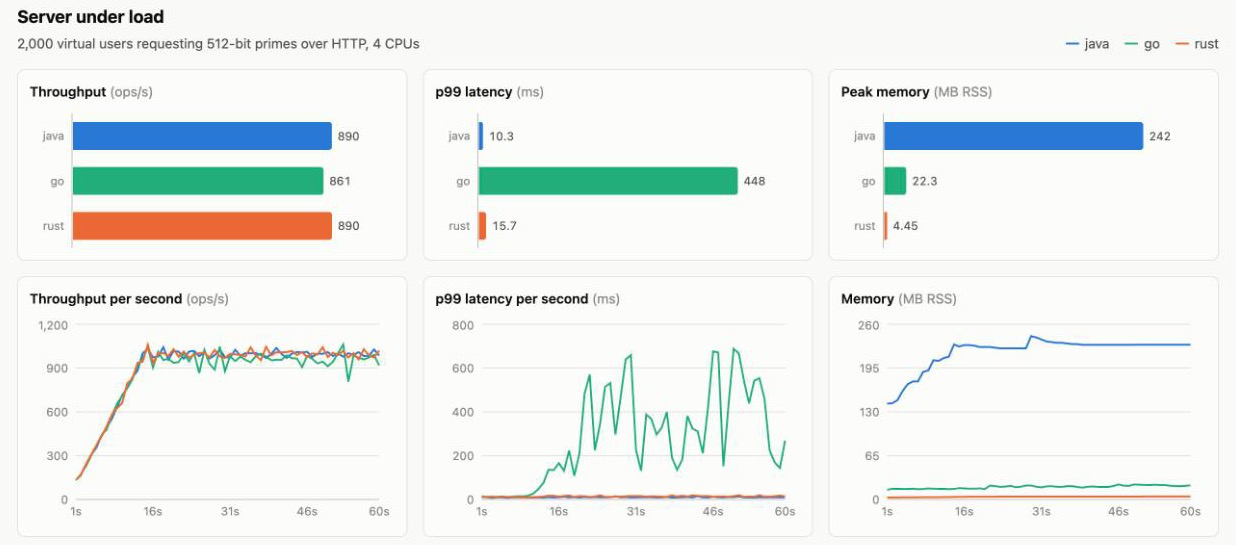
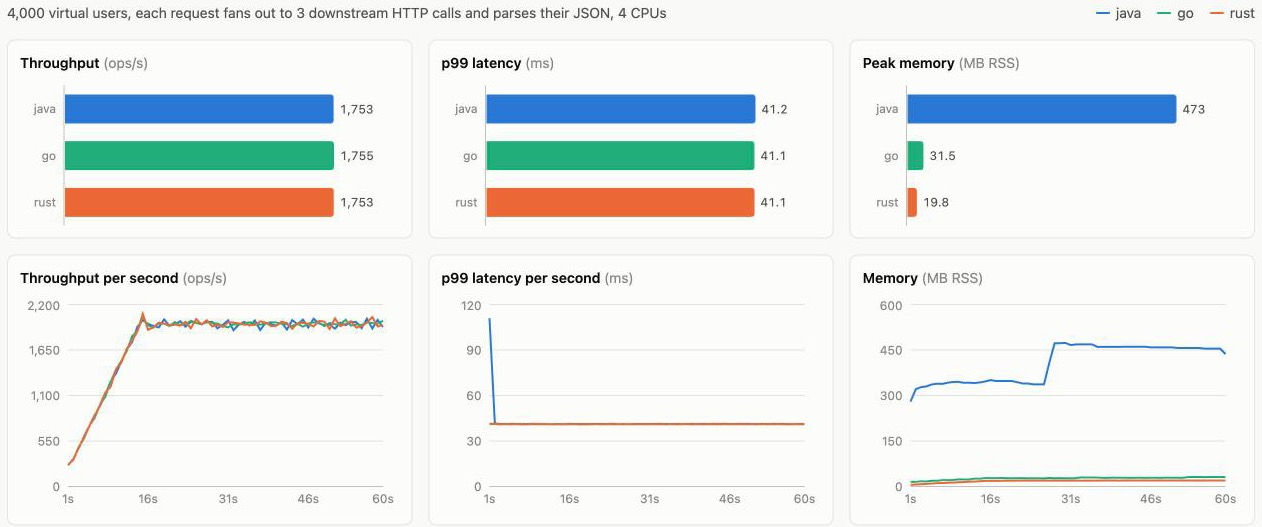
Document the gateway scenario and update the README results with a full run of all three scenarios.

diff --git a/README.md b/README.md
@@ -2,9 +2,9 @@
 
 [![CI](https://github.com/jaderss/prime-bench/actions/workflows/ci.yml/badge.svg)](https://github.com/jaderss/prime-bench/actions/workflows/ci.yml) [![Quality gate](https://sonarcloud.io/api/project_badges/measure?project=jaderss_prime-bench&metric=alert_status)](https://sonarcloud.io/summary/new_code?id=jaderss_prime-bench) [![Coverage](https://sonarcloud.io/api/project_badges/measure?project=jaderss_prime-bench&metric=coverage)](https://sonarcloud.io/summary/new_code?id=jaderss_prime-bench)
 
-Java, Go and Rust generating big probable primes with the same Miller-Rabin test. Two runs per language: a batch job on all CPUs, and an HTTP server under thousands of virtual users. Every run writes a CSV with throughput, latency percentiles, memory and CPU, and a React dashboard reads them.
+Java, Go and Rust on the same work, in three scenarios: a batch job generating big probable primes on all CPUs, an HTTP server generating them for thousands of virtual users, and a gateway endpoint that calls three downstream REST APIs in parallel and parses their JSON. Every run writes a CSV with throughput, latency percentiles, memory and CPU, and a React dashboard reads them.
 
-The point is to compare the concurrency models on the same work: Java virtual threads, Go goroutines, and Rust tokio with a rayon pool.
+The point is to compare the concurrency models on CPU-bound and on I/O-bound work: Java virtual threads, Go goroutines, and Rust tokio (with a rayon pool for the CPU work).
 
 ## Running
 
@@ -13,17 +13,17 @@ You need git, `make` and Docker running (Docker Desktop on macOS and Windows). T
 ```bash
 git clone https://github.com/jaderss/prime-bench.git
 cd prime-bench
-make bench        # build, then batch and server runs for java, go and rust
+make bench        # build, then batch, server and gateway runs for java, go and rust
 make dashboard    # open http://localhost:8080
 make down         # stop everything
 ```
 
-`make bench` takes about five minutes with the defaults. The first build pulls the base images and takes a few minutes more. CSVs land in `results/`, one per language and mode, named after the run (`20261021T172045Z_server_go.csv`). `make help` lists every target.
+`make bench` takes about eight minutes with the defaults. The first build pulls the base images and takes a few minutes more. CSVs land in `results/`, one per language and mode, named after the run (`20261021T172045Z_server_go.csv`). `make help` lists every target.
 
 For a quick first look, about two minutes:
 
 ```bash
-make bench BATCH_COUNT=40 USERS=200 DURATION=15s
+make bench BATCH_COUNT=40 USERS=200 GATEWAY_USERS=200 DURATION=15s
 ```
 
 Any value from `.env` can be overridden on the command line:
@@ -31,6 +31,8 @@ Any value from `.env` can be overridden on the command line:
 ```bash
 make batch LANGS=rust                    # one mode, one language
 make server USERS=5000 THINK_TIME=1s     # heavier load
+make gateway MOCK_LATENCY=80ms           # slower downstream APIs
+make gateway MOCK_ERROR_RATE=0.01        # 1% of downstream calls fail
 make bench JAVA_VERSION=25 LANGS=java    # same benchmark on another JDK
 make bench APP_CPUS=2 LOADGEN_CPUS=1     # smaller Docker setup
 make dashboard DASHBOARD_PORT=9090       # 8080 already taken
@@ -51,6 +53,11 @@ docker compose down
 | go | 8082 |
 | rust | 8083 |
 | dashboard | 8080 |
+
+```bash
+docker compose --profile tools up -d mock go
+curl "localhost:8082/aggregate?account=acc-123"
+```
 
 ### Without make
 
@@ -104,48 +111,60 @@ Change a line, run `make bench`, and the dashboard's "All runs" table shows both
 
 ## Results
 
-One run on an Apple M4 Max, Docker Desktop, 4 CPUs and 2 GB per app. Java 27, Go 1.27.3, Rust 1.99.1.
+One run on an Apple M4 Max, Docker Desktop, 4 CPUs and 2 GB per app. Java 27, Go 1.27.3, Rust 1.99.1. Every run finished with 0 errors.
 
-![Dashboard, server run](docs/dashboard.jpg)
+![Dashboard, gateway run](docs/dashboard.jpg)
 
 **Batch**, 200 primes of 2048 bits, 4 threads:
 
 | | Primes/s | p50 ms | p99 ms | Peak RSS MB |
 |---|---|---|---|---|
-| Java | 16.4 | 179 | 951 | 163 |
-| Go | 15.4 | 186 | 892 | 15.7 |
-| Rust | 12.4 | 238 | 1230 | 2.6 |
+| Java | 17.2 | 176 | 981 | 141 |
+| Go | 15.2 | 202 | 884 | 14.0 |
+| Rust | 11.9 | 228 | 1430 | 2.8 |
 
 **Server**, 2000 virtual users, 512-bit primes, 2 s think time, 60 s:
 
 | | Requests/s | p50 ms | p99 ms | Peak RSS MB | CPU % |
 |---|---|---|---|---|---|
-| Java | 890 | 2.8 | 10.3 | 242 | 241 |
-| Go | 861 | 33.7 | 448 | 22.3 | 346 |
-| Rust | 890 | 4.1 | 15.7 | 4.5 | 292 |
+| Java | 891 | 2.7 | 10.0 | 275 | 236 |
+| Go | 864 | 35.4 | 402 | 22.9 | 346 |
+| Rust | 891 | 4.1 | 16.0 | 4.9 | 292 |
+
+**Gateway**, 4000 virtual users, 3 downstream calls per request (30 ± 10 ms each), 2 s think time, 60 s:
+
+| | Requests/s | p50 ms | p99 ms | Peak RSS MB | CPU % |
+|---|---|---|---|---|---|
+| Java | 1753 | 36.8 | 41.2 | 473 | 82 |
+| Go | 1755 | 36.7 | 41.1 | 31.5 | 35 |
+| Rust | 1753 | 36.7 | 41.1 | 19.8 | 22 |
+
+The mock downstream used 15% of its CPU in each gateway run, so it was not the limit.
 
 What the numbers show:
 
-- At 2048 bits Java and Go are close and Rust is 20 to 25% slower. `num-bigint` is portable Rust, while `BigInteger` has JIT intrinsics and `math/big` has assembly.
-- At 512 bits the order changes. A batch run of 4000 primes gives Java about 1420/s, Rust 1265/s and Go 990/s, so Go spends more CPU per prime on small numbers.
-- Under load that extra CPU turns into latency. Go serves the same traffic at 87% CPU, Java at 60%, and queueing near saturation grows much faster than load. Same throughput, 40x the p99.
+- At 2048 bits Java leads, Go is close and Rust is 20 to 30% slower. `num-bigint` is portable Rust, while `BigInteger` has JIT intrinsics and `math/big` has assembly.
+- At 512 bits Go falls behind. A batch run of 4000 primes gives Java about 1420/s, Rust 1265/s and Go 990/s, so Go spends more CPU per prime on small numbers.
+- Under load that extra CPU turns into latency. Go serves the same traffic at 87% CPU, Java at 59%, and queueing near saturation grows much faster than load. Same throughput, 40x the p99.
 - Go's garbage collector is not the main cost. The heap stays around 5 MB, so it runs about 200 cycles per second, but those take 3% of the CPU. `GOGC=400` cuts the p99 to about 120 ms with the same CPU use. Try it with `make server LANGS=go GOGC=400`.
-- Memory is where the runtimes differ most: about 240 MB for the JVM, 22 MB for Go, 4.5 MB for Rust, for the same work.
+- In the gateway, where the work is waiting on other services, all three give the same throughput and latency. The cost is what differs: for the same 1750 requests per second, Java uses 3.7 times the CPU of Rust and Go 1.6 times.
+- Memory is where the runtimes differ most. In the gateway run: 473 MB for the JVM, 31.5 MB for Go, 19.8 MB for Rust. With `JAVA_OPTS=-Xmx128m` Java handles the same load at 337 MB, so most of the JVM's memory is the runtime itself, not the heap.
 
 Run it on your own machine before you quote any of this. See [METHODOLOGY.md](METHODOLOGY.md) for the limits.
 
 ## Layout
 
 ```
-apps/java     Java 27, no framework. HttpServer on virtual threads, Maven, JUnit
+apps/java     Java 27, no framework. HttpServer and HttpClient on virtual threads, Jackson, Maven, JUnit
 apps/go       Go 1.27, standard library only
-apps/rust     Rust 1.99, axum, tokio, rayon, num-bigint
+apps/rust     Rust 1.99, axum, tokio, rayon, num-bigint, reqwest, serde
 loadgen       Go load generator, shares the CSV writer with apps/go
+mock          Go mock of three downstream REST APIs, with latency and error injection
 dashboard     React 19, Vite, Recharts, served by nginx
 results       CSV output, mounted into every container
 ```
 
-Each app reads its settings from the environment: `MODE` (`batch` or `server`), `BITS`, `COUNT`, `CONCURRENCY`, `ROUNDS`, `RUN_ID`. The CSV schema and the HTTP contract are in [METHODOLOGY.md](METHODOLOGY.md), together with what the numbers do not tell you.
+Each app reads its settings from the environment: `MODE` (`batch` or `server`), `BITS`, `COUNT`, `CONCURRENCY`, `ROUNDS`, `RUN_ID`, `DOWNSTREAM_URL`. The CSV schema and the HTTP contract are in [METHODOLOGY.md](METHODOLOGY.md), together with what the numbers do not tell you.
 
 ## Testing
 

diff --git a/METHODOLOGY.md b/METHODOLOGY.md
@@ -21,7 +21,7 @@ The built-in primality tests (`BigInteger.isProbablePrime`, `big.Int.ProbablyPri
 
 Prime gaps are random, so the cost of one prime varies a lot. Compare throughput over hundreds of primes, not single latencies.
 
-## Two modes
+## Three scenarios
 
 **Batch.** Each app generates `BATCH_COUNT` primes of `BATCH_BITS` with one platform thread per CPU, pulling from a shared counter. This measures raw throughput and scaling.
 
@@ -45,6 +45,29 @@ One shared load generator (`loadgen/`, Go) runs `USERS` virtual users. Each user
 
 The servers run one at a time. The load generator has its own CPU limit (`LOADGEN_CPUS`).
 
+**Gateway.** The same servers expose `GET /aggregate?account=acc-123`, the shape of a typical microservice: three calls in parallel to downstream REST APIs, parse the JSON, combine, answer.
+
+```
+GET /accounts/acc-123                130 bytes
+GET /accounts/acc-123/transactions   40 transactions, 5.9 KB
+GET /rates                           20 exchange rates, 305 bytes
+
+{"accountId":"acc-123","currency":"USD","balanceMinor":1250075,"transactions":40,
+ "spentMinor":...,"receivedMinor":...,"balanceEur":11500.69}
+```
+
+| | HTTP client | JSON | Fan-out |
+|---|---|---|---|
+| Java | `java.net.http.HttpClient` | Jackson 3 | one virtual thread per call |
+| Go | `net/http` | `encoding/json` | one goroutine per call |
+| Rust | reqwest | serde_json | `tokio::try_join!` |
+
+The downstream is one shared mock (`mock/`, Go), so all three call the same thing. It waits `MOCK_LATENCY` ± `MOCK_JITTER` (30 ± 10 ms) before answering, can fail a share of calls (`MOCK_ERROR_RATE`), and has its own CPU limit (`MOCK_CPUS`). The load generator logs the mock's CPU use after each run, to show it is not the bottleneck. A downstream error or timeout (5 s) turns into a 502, which the load generator counts as an error.
+
+For fairness, all three use HTTP/1.1 with keep-alive and a pool that does not cap connections: Go's default of 2 idle connections per host is raised to 4096, reqwest gets the same, and Java's client has no limit by default. Every request waits for the slowest of its three calls, so the gateway p50 starts around the mock's latency and the tail follows its jitter.
+
+The load generator picks a random account per request (`acc-0` to `acc-9999`), with `GATEWAY_USERS` users and `GATEWAY_THINK_TIME` think time. In the CSV these rows have `mode=gateway` and `bits=0`.
+
 ## What is measured
 
 One CSV per language and mode, in `results/`, with a row per second (`kind=interval`) and a final `kind=summary` row.
@@ -57,12 +80,13 @@ One CSV per language and mode, in `results/`, with a row per second (`kind=inter
 | `cpu_pct` | delta of `utime + stime` from `/proc/self/stat` / wall time. 400 means four CPUs busy |
 | `cpus` | CPUs the runtime sees (`availableProcessors`, `GOMAXPROCS`, `available_parallelism`) |
 
-All three read memory and CPU the same way, from the same Linux files. In server mode the load generator polls `/stats` once per second.
+All three read memory and CPU the same way, from the same Linux files. In server and gateway mode the load generator polls `/stats` once per second.
 
 ## Limits
 
 - Docker Desktop on a Mac runs Linux in a VM. Numbers are good for comparing the three languages on the same machine, not as absolute figures.
 - CPU and memory are capped per container (`APP_CPUS`, `APP_MEMORY`). All three runtimes are container aware and size their thread pools to the cap.
+- JVM memory is partly heap sizing policy: with a 2 GB container limit the default max heap is 512 MB, and G1 grows into it under load. In the gateway run, `JAVA_OPTS=-Xmx128m` handled the same load with 0 errors and the same latency, and peak RSS went from 473 to 337 MB. The rest is the JVM itself: metaspace, JIT code cache, carrier threads and HTTP client buffers.
 - No JVM tuning: default GC, no warmup phase. The first seconds of the Java run include JIT compilation, and the per-second chart shows it. Set `JAVA_OPTS` to try other flags.
 - Rust builds with `--release` and `codegen-units = 1`. Go builds with default flags.
 - `num-bigint` is portable Rust. Java's `BigInteger` gets HotSpot intrinsics for its multiply loops and Go's `math/big` has assembly for amd64 and arm64. At 2048 bits and above, this matters more than the language.
